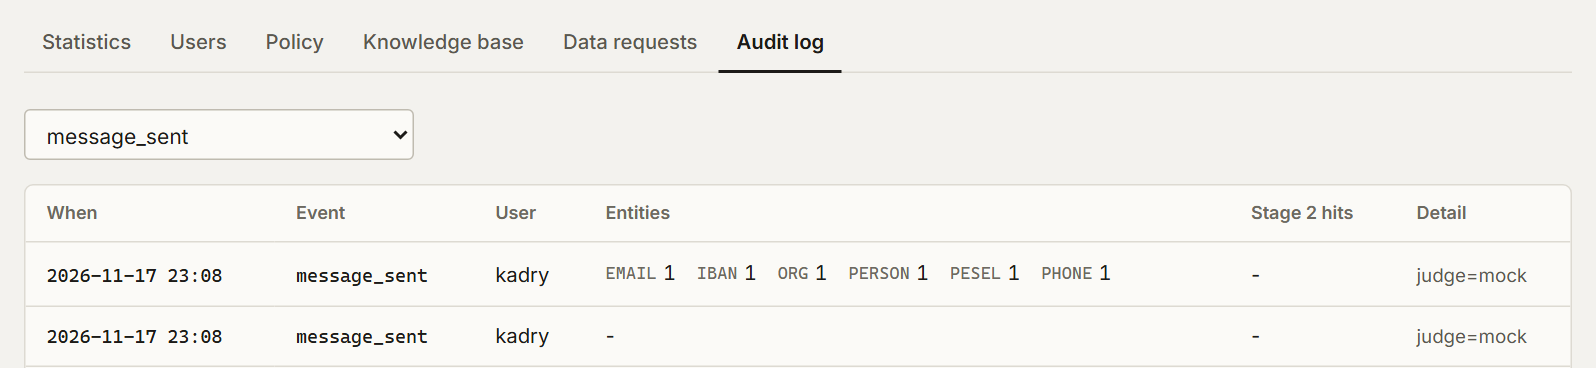
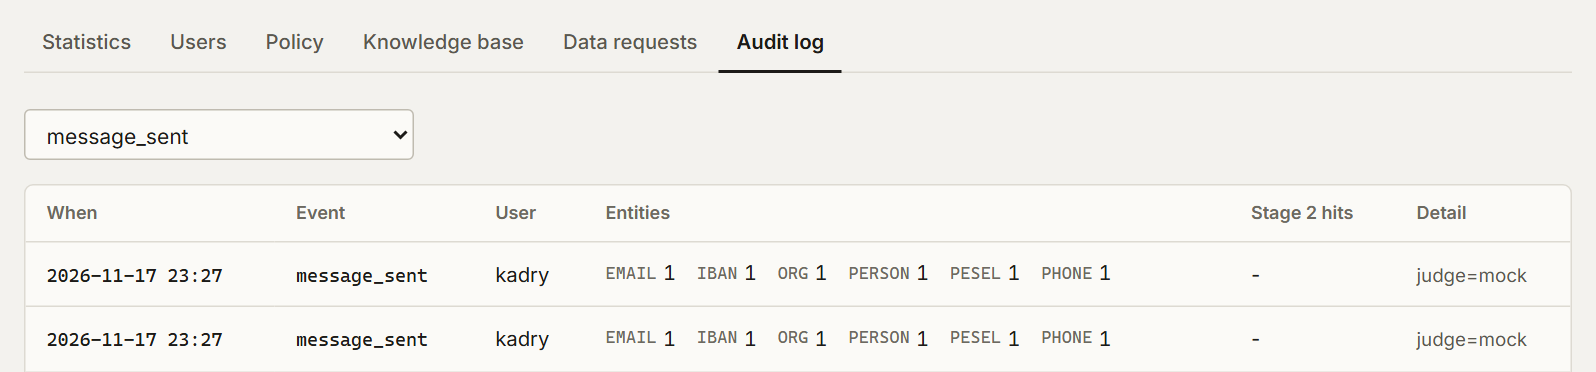
docs(readme): show the demo and the audit picture in the reader's theme
Both READMEs showed the light interface to every reader. The demo, in English and in Polish, and the audit log picture are now recorded in the dark theme too, and each sits in a picture element whose dark source GitHub serves to readers on its dark theme; the light files are taken again in the same run, from the same seeded hubs. The Polish audit caption loses its dashes.

diff --git a/README.pl.md b/README.pl.md
@@ -22,10 +22,10 @@ Silnikiem maskowania jest [polanon](https://github.com/boromat/polanon), osobna 
 instaluje z [PyPI](https://pypi.org/project/polanon/); to repozytorium zawiera hub zbudowany wokół
 niej.
 
-![Użytkownik wysyła wiadomość z imieniem i nazwiskiem, numerem PESEL, numerem telefonu, adresem
-e-mail, numerem IBAN i nazwą firmy; odpowiedź spływa strumieniowo z oryginałami na właściwych
-miejscach, a „Co zobaczył model” pokazuje, że dostawca dostał tylko tokeny, takie jak OSOBA_1
-i PESEL_1.](docs/images/demo-pl.webp)
+<picture>
+  <source media="(prefers-color-scheme: dark)" srcset="docs/images/demo-pl-dark.webp">
+  <img src="docs/images/demo-pl.webp" alt="Użytkownik wysyła wiadomość z imieniem i nazwiskiem, numerem PESEL, numerem telefonu, adresem e-mail, numerem IBAN i nazwą firmy; odpowiedź spływa strumieniowo z oryginałami na właściwych miejscach, a „Co zobaczył model” pokazuje, że dostawca dostał tylko tokeny, takie jak OSOBA_1 i PESEL_1.">
+</picture>
 
 <sub>Nagrane na komputerze programisty, z atrapą dostawcy i syntetycznymi danymi.</sub>
 
@@ -144,8 +144,10 @@ stawia fragment z odpowiedzią na pierwszym miejscu przy każdym pytaniu.
   historia wiadomości i wgrane pliki znikają zgodnie z harmonogramem ustawionym przez administratora.
 - **Dziennik audytu**, który zapisuje typy danych, ich liczby i skróty (hashe), a nigdy same wartości.
 
-  ![Dziennik audytu: wpis o wysłanej wiadomości wymienia rodzaje zamaskowanych danych — EMAIL, IBAN,
-  ORG, PERSON, PESEL i PHONE, po jednym z każdego — i nie zawiera żadnej wartości.](docs/images/audit.png)
+  <picture>
+    <source media="(prefers-color-scheme: dark)" srcset="docs/images/audit-dark.png">
+    <img src="docs/images/audit.png" alt="Dziennik audytu: wpis o wysłanej wiadomości wymienia rodzaje zamaskowanych danych, EMAIL, IBAN, ORG, PERSON, PESEL i PHONE, po jednym z każdego, i nie zawiera żadnej wartości.">
+  </picture>
 
 - **Polityka ustalana przez administratora**: tryb zatwierdzania dla każdego kanału, działanie
   etapu 2, retencja, maskowane typy danych, nazwy, które trzeba maskować zawsze, i nazwy, których nie

diff --git a/README.md b/README.md
@@ -20,9 +20,10 @@ gaps.
 The masking engine is [polanon](https://github.com/boromat/polanon), a separate library that pip
 installs from [PyPI](https://pypi.org/project/polanon/); this repository holds the hub around it.
 
-![A message with a name, a PESEL, a phone number, an e-mail address, an IBAN and a company is sent;
-the answer streams back with the originals in place, and "What the model saw" shows that the provider
-received only tokens such as OSOBA_1 and PESEL_1.](docs/images/demo.webp)
+<picture>
+  <source media="(prefers-color-scheme: dark)" srcset="docs/images/demo-dark.webp">
+  <img src="docs/images/demo.webp" alt="A message with a name, a PESEL, a phone number, an e-mail address, an IBAN and a company is sent; the answer streams back with the originals in place, and &quot;What the model saw&quot; shows that the provider received only tokens such as OSOBA_1 and PESEL_1.">
+</picture>
 
 <sub>Recorded against a stand-in provider on the developer's machine, with synthetic data.</sub>
 
@@ -135,8 +136,10 @@ own puts the passage with the answer first for every question.
   history and uploaded files all disappear on the schedule the admin sets.
 - **Audit log** recording entity types, counts and hashes, never the values themselves.
 
-  ![The audit log: a sent message lists the kinds of data it masked, EMAIL, IBAN, ORG, PERSON,
-  PESEL and PHONE, one of each, and no value.](docs/images/audit.png)
+  <picture>
+    <source media="(prefers-color-scheme: dark)" srcset="docs/images/audit-dark.png">
+    <img src="docs/images/audit.png" alt="The audit log: a sent message lists the kinds of data it masked, EMAIL, IBAN, ORG, PERSON, PESEL and PHONE, one of each, and no value.">
+  </picture>
 
 - **Admin policies**: approval mode per channel, stage-2 behaviour, retention, which entity types to
   mask, names to always mask, and names never to mask — Facebook, Google Ads, Canva and the other

diff --git a/CHANGELOG.md b/CHANGELOG.md
@@ -6,6 +6,12 @@ All notable changes to this project are recorded here. The format follows
 
 ## [Unreleased]
 
+### Changed
+
+- **The README's pictures follow the reader's theme**: the demo, in English and in Polish, and the
+  audit log picture are recorded in the dark theme as well, and GitHub shows the dark ones to a
+  reader who uses its dark theme.
+
 ## [0.4.0] - 2026-11-17
 
 A chat that looks like one: nothing above the conversation, the account at the sidebar's foot,
